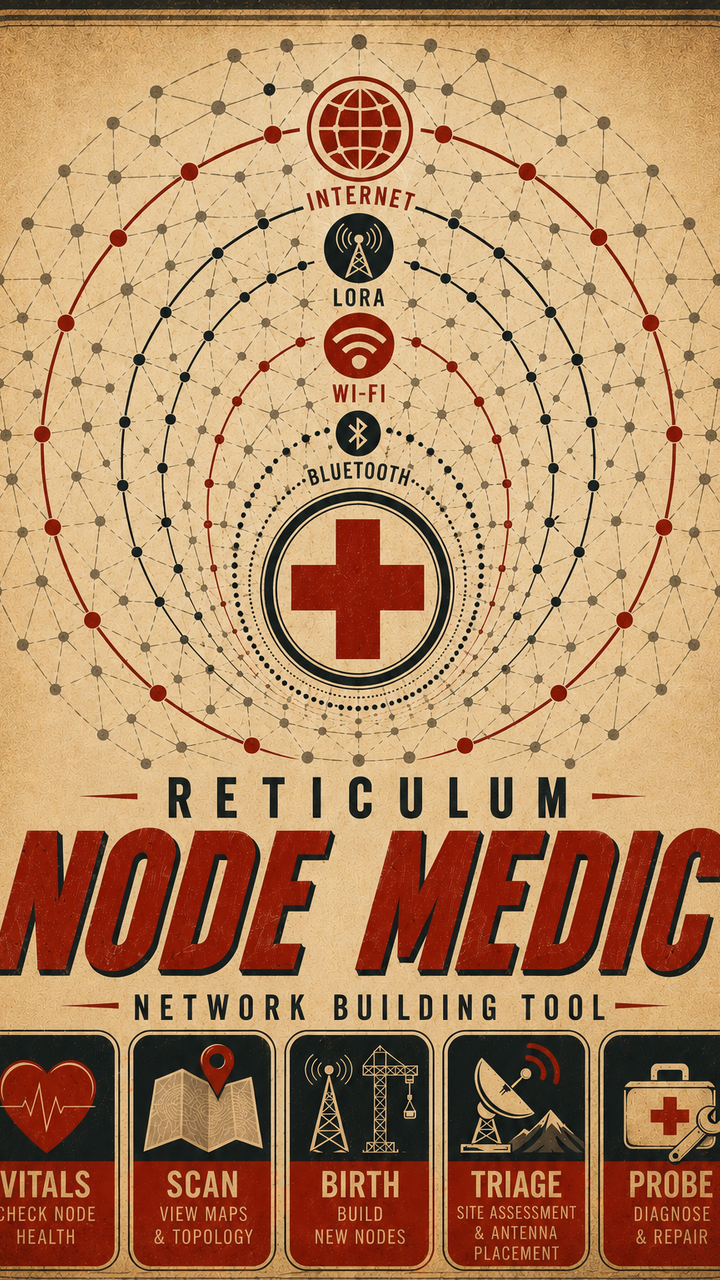
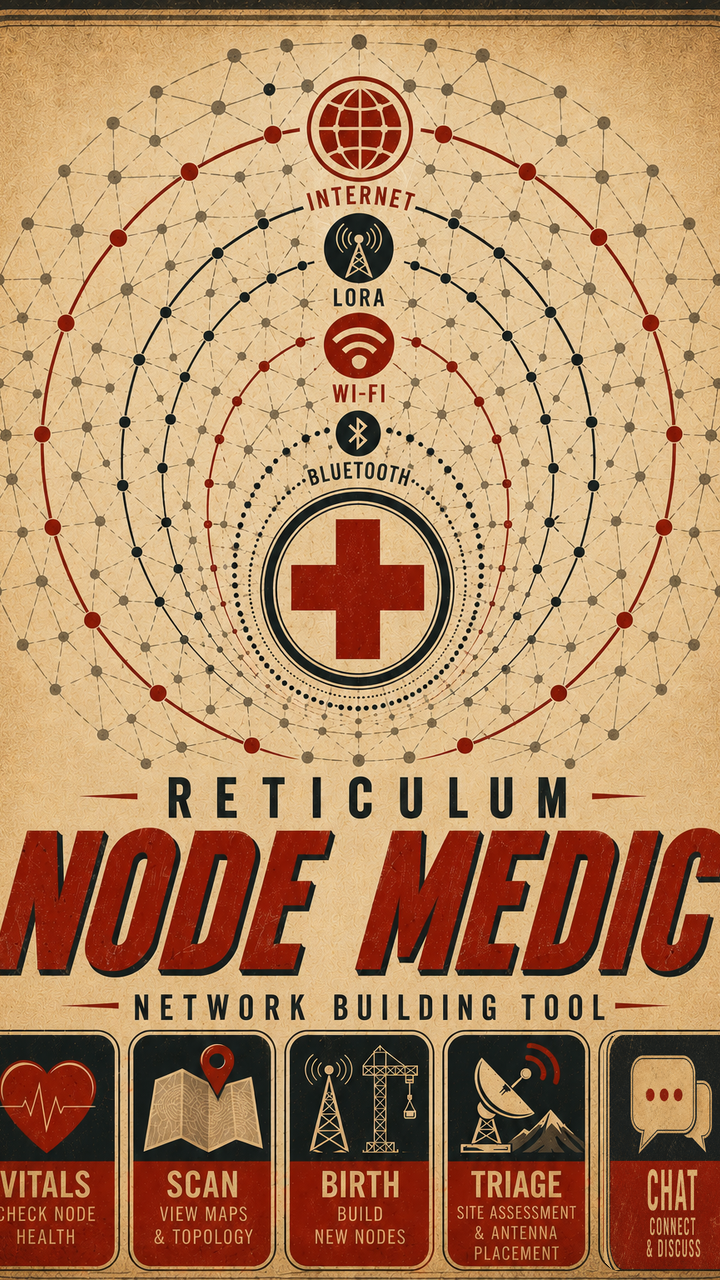
Front page: CHAT replaces PROBE — art and zones changed together, as they must
Tasks #22 and #57.

#22 WAS BLOCKED, AND CORRECTLY SO. The home screen is a tap-map over a painted
poster. Re-pointing the fifth entry in code would have left a card reading
"PROBE / DIAGNOSE & REPAIR", illustrated with a toolbox, opening a chat screen —
the operator's standing rule broken at its most literal, and worse than the
wrong-Pi-photo case because here the mismatch is in WORDS.

The operator supplied artwork in the poster's own style, so the block lifted.
The card was rebuilt at the poster's proportions rather than pasted: the art is
square, the slot is 144x269, and a straight paste would have distorted it. Its
black icon panel and red label band were resized separately so the black/red
seam lands exactly where TRIAGE's does.

Rendered and LOOKED at before writing, per the standing rule — which caught the
first attempt putting CHAT's seam 30px below its neighbours'. The cause was
measuring the art's split at the red DOTS inside the speech bubble rather than
the band itself; it is detected now instead of eyeballed.

TWO THINGS CHECKED BEFORE, NOT AFTER:
  * PROBE keeps a door — ui/widgets/sidebar.py — so Self Diagnose, the medic's
    own health check, is not orphaned.
  * CHAT opens something REAL. switch_mode silently ignores an unknown screen
    name, so a wrong mapping would have failed invisibly and left a live-looking
    card doing nothing. It routes to "comms" — ui/screens/comms_screen.py, "the
[…]

Changed region(s): [[0.825, 0.8125, 1.0, 1.0]]

diff --git a/tests/test_home_zones.py b/tests/test_home_zones.py
@@ -6,14 +6,14 @@ from ui.home_zones import zone_at, CARD_ORDER, CARDS_TOP
 def test_five_cards_left_to_right():
     y = 0.9                                   # inside the card row
     hits = [zone_at((i + 0.5) / 5, y) for i in range(5)]
-    assert hits == ["vitals", "scan", "birth", "triage", "probe"]
+    assert hits == ["vitals", "scan", "birth", "triage", "chat"]
     assert hits == CARD_ORDER
 
 
 def test_card_row_edges_full_bleed():
     # the 720x1280 cut runs the cards to the screen edges
     assert zone_at(0.02, CARDS_TOP + 0.01) == "vitals"
-    assert zone_at(0.98, 0.99) == "probe"
+    assert zone_at(0.98, 0.99) == "chat"      # the fifth card is CHAT since 2026-08-07
     assert zone_at(0.5, CARDS_TOP - 0.02) is None   # just above the cards
 
 
@@ -34,3 +34,81 @@ def test_wifi_emblem_opens_wifi_settings():
 def test_out_of_image_taps_are_none():
     assert zone_at(-0.1, 0.5) is None
     assert zone_at(0.5, 1.2) is None
+
+
+# --- the zones are a claim about PAINTED WORDS (task #22) --------------------
+# The home screen is a tap-map over assets/ui/front_page.png. CARD_ORDER is not
+# a menu the tool renders — it is an assertion about text already printed on the
+# artwork. Read off the image 2026-08-07, the five cards say:
+#
+#   VITALS / CHECK NODE HEALTH        SCAN / VIEW MAPS & TOPOLOGY
+#   BIRTH / BUILD NEW NODES           TRIAGE / SITE ASSESSMENT & ANTENNA PLACEMENT
+#   PROBE / DIAGNOSE & REPAIR
+#
+# #22 wants PROBE off the front page to make room for CHAT (#23). That cannot be
+# a code change: re-pointing the fifth entry would leave a card labelled PROBE,
+# illustrated with a toolbox, opening a chat screen. New art comes first.
+
+def test_the_tap_zones_match_the_words_on_the_poster():
+    from ui.home_zones import CARD_ORDER, POSTER_CARD_LABELS
+    assert len(CARD_ORDER) == len(POSTER_CARD_LABELS)
+    assert [c.upper() for c in CARD_ORDER] == POSTER_CARD_LABELS, (
+        "a tap zone no longer matches the word painted on that card — if the "
+        "artwork changed, update POSTER_CARD_LABELS in the same commit")
+
+
+def test_the_poster_is_still_the_size_the_zones_assume():
+    """Fractions survive scaling, but the card row's y-cut (0.79) was measured
+    on the 720x1280 art. A re-crop moves it."""
+    import os
+    from PIL import Image                       # pillow is a test-only dep here
+    path = os.path.join(os.path.dirname(os.path.dirname(os.path.abspath(__file__))),
+                        "assets", "ui", "front_page.png")
+    if not os.path.exists(path):                # gitignored on CI
+        return
+    assert Image.open(path).size == (720, 1280)
+
+
+# --- CHAT replaced PROBE on the front row (2026-08-07) ----------------------
+# The operator supplied artwork in the poster's own style; it was composited
+# into the fifth slot and the zone followed it in the SAME commit. That is the
+# only order in which this change is allowed to happen.
+
+def test_the_fifth_card_is_chat():
+    from ui.home_zones import CARD_ORDER
+    assert CARD_ORDER[-1] == "chat"
+    assert "probe" not in CARD_ORDER
+
+
+def test_probe_is_still_reachable_somewhere():
+    """Removing PROBE from the poster must not orphan it — Self Diagnose lives
+    under it, and it is the medic's own health check."""
+    from ui.widgets.sidebar import MODES as ITEMS
+    assert any(key == "probe" for key, _label in ITEMS), (
+        "PROBE has no door left anywhere")
+
+
+def test_chat_opens_a_screen_that_actually_exists():
+    """The whole point of not doing this earlier: a card that looks alive and
+    does nothing. switch_mode silently ignores an unknown screen name, so a
+    wrong mapping here fails INVISIBLY."""
+    from ui.home_zones import screen_for
+    assert screen_for("chat") == "comms"
+    import os
+    assert os.path.exists("ui/screens/comms_screen.py")
+
+
+def test_every_card_maps_to_a_real_screen_name():
+    """Guard for the next card that gets renamed on the art."""
+    import os
+    from ui.home_zones import CARD_ORDER, screen_for
+    known = {"vitals", "scan", "birth", "triage", "probe", "comms", "mitosis"}
+    for zone in CARD_ORDER:
+        target = screen_for(zone)
+        assert target in known, f"{zone} -> {target}, which no screen answers"
+
+
+def test_unmapped_zones_pass_straight_through():
+    from ui.home_zones import screen_for
+    assert screen_for("vitals") == "vitals"
+    assert screen_for("credits") == "credits"

diff --git a/ui/home_zones.py b/ui/home_zones.py
@@ -19,7 +19,27 @@ from typing import Optional
 CARDS_TOP = 0.79          # y-fraction where the card row begins
 CARDS_LEFT = 0.0
 CARDS_RIGHT = 1.0   # the 720x1280 cut runs the cards full-bleed
-CARD_ORDER = ["vitals", "scan", "birth", "triage", "probe"]
+CARD_ORDER = ["vitals", "scan", "birth", "triage", "chat"]
+
+#: WHAT THE POSTER ACTUALLY SAYS, read off assets/ui/front_page.png. The home
+#: screen is a TAP-MAP over a painted image: this list is not a menu the tool
+#: renders, it is a claim about words already printed on the artwork.
+#:
+#: So CARD_ORDER cannot be reordered or re-pointed in code alone. Changing the
+#: fifth entry to "chat" — which #22/#23 want — would leave a card labelled
+#: "PROBE / DIAGNOSE & REPAIR", illustrated with a toolbox, opening a chat
+#: screen. That is the operator's standing rule broken at its most literal:
+#: everything the operator sees must correspond to what it does, and here the
+#: mismatch would be in WORDS rather than a picture.
+#:
+#: The fifth card became CHAT on 2026-08-07: the operator supplied artwork in
+#: the poster's own style, it was composited into the row, and the zone followed
+#: it in the same commit. PROBE keeps its own door in the sidebar, so nothing
+#: became unreachable — Self Diagnose in particular.
+#:
+#: A test holds these two in step so the mismatch cannot be introduced by an
+#: innocent-looking one-line edit.
+POSTER_CARD_LABELS = ["VITALS", "SCAN", "BIRTH", "TRIAGE", "CHAT"]
 
 # The red-cross emblem — the Easter egg (credits).
 CROSS_CX = 0.50
@@ -55,3 +75,17 @@ def zone_at(fx: float, fy: float) -> Optional[str]:
     if (dx * dx + dy_x * dy_x) ** 0.5 <= CROSS_R:
         return "credits"
     return None
+
+
+#: When the word on the card is not the screen's internal name. CHAT is painted
+#: on the poster; the screen that answers it has been called "comms" since it
+#: was built (ui/screens/comms_screen.py — "the mesh messenger for your
+#: pocket"). Renaming the screen would have churned every reference for a label;
+#: this states the translation in one place instead.
+ZONE_SCREEN = {"chat": "comms"}
+
+
+def screen_for(zone: str) -> str:
+    """The screen a tapped zone should open. Identity unless ZONE_SCREEN says
+    otherwise."""
+    return ZONE_SCREEN.get(zone, zone)

diff --git a/ui/screens/birth_screen.py b/ui/screens/birth_screen.py
@@ -57,11 +57,18 @@ PI_HOSTS = [
     ("none", "None — standalone radio (flash only)"),
 ]
 
-#: Mitosis (cloning this Node Medic) is restricted to the Heltec Wireless Tracker
-#: ONLY at this stage — it's the board whose GPS/location path we've proven on
-#: hardware (Jonesey), so a clone's location function is guaranteed correct.
-#: Other GPS-capable boards can be added once their GPS is verified end-to-end.
-MITOSIS_BOARDS = {"heltec_wireless_tracker"}
+# MITOSIS_BOARDS lived here and was removed 2026-08-07 (task #57). It read
+# {"heltec_wireless_tracker"} and restricted cloning to the one board whose
+# GPS path we had proven, "so a clone's location function is guaranteed
+# correct". Nothing ever referenced it — and the reason is that the design
+# moved underneath it: MITOSIS now clones this medic onto a fresh PI over the
+# wire (ui/app.py _mitosis_factory), so there is no board for it to restrict.
+#
+# THE INTENT IS STILL LIVE, just relocated: a Pi has no GPS of its own, so a
+# clone's location comes from a Heltec Tracker plugged into IT
+# ([[medic-gps-via-tracker]]). Whoever wires the real clone flow should carry
+# the rule forward there — only bless a GPS board proven end-to-end — rather
+# than rediscover it.
 
 #: Rough seconds per build step, so the progress ring fills by ESTIMATED TIME (the
 #: firmware compile dominates) rather than jumping one flat notch per step. Under-

diff --git a/ui/app.py b/ui/app.py
@@ -78,13 +78,6 @@ def _demo_pi_build():
     return BuildWorkflow(conn, NodeProfile())
 
 
-def _hostnameify(name: str) -> str:
-    """A node name -> a valid hostname (lowercase, dashes, trimmed)."""
-    import re as _re
-    h = _re.sub(r"[^a-z0-9-]+", "-", (name or "").lower()).strip("-")
-    return h[:32] or ""
-
-
 def _pi_rnode_factory(address: str = "", user: str = "pi", node_name: str = ""):
     """Pi propagation birth — REAL (2026-07-30): SSH to the target Pi and run
     the full BuildWorkflow (config, RNS/LXMF stack, services, the health
@@ -109,7 +102,8 @@ def _pi_rnode_factory(address: str = "", user: str = "pi", node_name: str = ""):
     from node_profile import NodeRole
     conn = SSHConnection(address, user=user)
     profile = NodeProfile(role=NodeRole.PROPAGATION, ssh_user=user)
-    hn = _hostnameify(node_name)
+    from provisioning.pi_imager import hostnameify
+    hn = hostnameify(node_name)
     if hn:
         profile.hostname = hn
     return BuildWorkflow(conn, profile)

diff --git a/ui/screens/home_screen.py b/ui/screens/home_screen.py
@@ -18,7 +18,7 @@ from kivy.uix.image import Image
 
 from ui import theme
 from ui.i18n import tr  # i18n: wrapped — power slider hint + flash-warning title
-from ui.home_zones import zone_at
+from ui.home_zones import screen_for, zone_at
 
 POSTER = os.path.join(os.path.dirname(os.path.dirname(os.path.abspath(__file__))),
                       os.pardir, "assets", "ui", "front_page.png")
@@ -218,6 +218,9 @@ class HomeScreen(FloatLayout):
         if frac:
             mode = zone_at(*frac)
             if mode and self._on_select:
-                self._on_select(mode)
+                # The painted word is not always the screen's internal name —
+                # CHAT opens "comms", which has been called that since it was
+                # built. One translation, stated in home_zones.
+                self._on_select(screen_for(mode))
                 return True
         return super().on_touch_up(touch)
